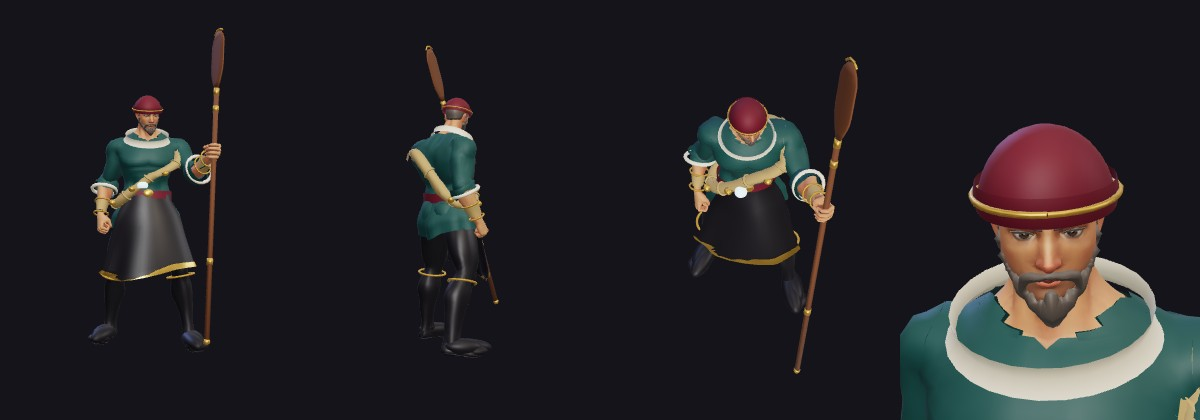
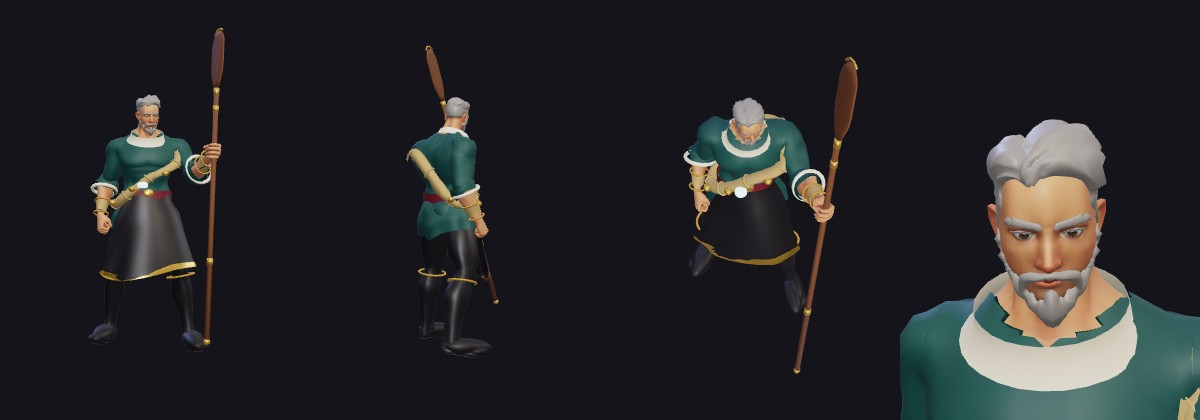
Tower figures: the Net-Father bare-headed with a roll neck, the Admiral's neck-stock, tighter line-ups
The fisher's dome cap read as a fez: grey hair, bare-headed. A closed cream stock hides the
admiral's cut neckline. The sheet script frames the line-ups closer and names its pictures as
they are kept (sea-lineup-game, sea-sheet, sea-<name>), so the README's command remakes them.
README: the counts (the crown floors have people too: about 220 models for everything new),
the anchor as it is carried.

diff --git a/pipeline/tools/tower-models-sheet.js b/pipeline/tools/tower-models-sheet.js
@@ -4,8 +4,8 @@
 //
 //   python pipeline/tools/page-shots.py pipeline/tools/tower-models-sheet.js docs/tower/models --port 5186
 //
-// It returns lineup_game (the game's high three-quarter camera), lineup_front, and per figure <id> (front, back, the
-// game camera, the face). The figures are read from docs/tower/models/glb/<id>_v4.glb (build them first:
+// It returns <chapter>-lineup-game (the game's high three-quarter camera), <chapter>-lineup-front, <chapter>-sheet
+// (every figure alone) and per figure <chapter>-<name> (front, back, the game camera, the face). The figures are read from docs/tower/models/glb/<id>_v4.glb (build them first:
 // blender/tower/build.py). `stand` is the hero whose way of holding and striking the figure borrows (src/motion/real.ts
 // REAL_STYLE: Sefu holds a staff upright in the left hand, Brannoc strikes with the right).
 const FIGS = window._towerFigs ?? [
@@ -20,6 +20,8 @@ const FIGS = window._towerFigs ?? [
 const { HeroPreview } = await import('/src/game/heroPreview.ts');
 const { HeroFigure } = await import('/src/heroFigure.ts');
 const { HERO_KITS } = await import('/src/heroes.ts');
+// the pictures are named after the chapter of the first figure: <chapter>-lineup-game, <chapter>-sheet, <chapter>-<name>
+const CH = FIGS[0].id.split('_')[0];
 const sleep = (ms) => new Promise((r) => setTimeout(r, ms));
 const kitOf = (n) => HERO_KITS.find((k) => k.name === n);
 const pv = new HeroPreview();
@@ -92,12 +94,12 @@ const out = {};
 pose(0.25);
 const dir = new V3(0, 6, 5).normalize();
 camera.fov = 30;
-camera.position.copy(new V3(0, 1.4, 0).addScaledVector(dir, 19));
+camera.position.copy(new V3(0, 1.4, 0).addScaledVector(dir, 13.8));
 camera.lookAt(0, 1.4, 0);
-out.lineup_game = shoot(1800, 760, names).toDataURL('image/jpeg', 0.9);
-camera.position.set(0, 2.3, 16.5);
-camera.lookAt(0, 2.1, 0);
-out.lineup_front = shoot(1800, 760, names).toDataURL('image/jpeg', 0.9);
+out[`${CH}-lineup-game`] = shoot(1800, 620, names).toDataURL('image/jpeg', 0.9);
+camera.position.set(0, 2.3, 12.6);
+camera.lookAt(0, 2.15, 0);
+out[`${CH}-lineup-front`] = shoot(1800, 680, names).toDataURL('image/jpeg', 0.9);
 
 // each alone: front, back, the game camera, the face
 const W = 300, H = 420;
@@ -145,9 +147,9 @@ for (let i = 0; i < FIGS.length; i++) {
   one.width = W * 4;
   one.height = H;
   tiles.forEach((t, k) => one.getContext('2d').drawImage(t, k * W, 0));
-  out[FIGS[i].id] = one.toDataURL('image/jpeg', 0.9);
+  out[FIGS[i].id.replace(/_/g, '-')] = one.toDataURL('image/jpeg', 0.9);
 }
 for (const r of row) r.fig.group.visible = true;
-out.each = sheet.toDataURL('image/jpeg', 0.88);
+out[`${CH}-sheet`] = sheet.toDataURL('image/jpeg', 0.88);
 out.missing = missing;
 return out;

diff --git a/blender/tower/sea/fisher.py b/blender/tower/sea/fisher.py
@@ -1,6 +1,6 @@
 """The Net-Father (the Sea's quest giver): the old fisher who mends the nets that hold the sea back from the town. A
-broad man, weathered, a grey-brown beard and a close knit cap of the harbour's wine with a gold cuff. A deep sea-green
-tunic with the sleeves to the elbow, a rolled cream collar, bare forearms with rope-wound bracers, black lacquer
+broad man, weathered, grey hair and a grey beard, bare-headed. A deep sea-green tunic with the sleeves to the elbow, a
+snug cream roll neck, a wine belt, bare forearms with rope-wound bracers, black lacquer
 trousers and knee boots with gold cuffs, a short black lacquer apron with a gold hem. His great net coiled over the
 left shoulder and across the chest to the right hip like a bandolier, strung with gold floats, and in it one float of
 sea glass that glows: his one light. In the LEFT hand a long steering oar, its blade up, gold at the neck and the tip
@@ -25,7 +25,7 @@ def build():
     R.mat("wood", "#6b4226", rough=0.7)
     R.mat("gold", "#c9a24a", rough=0.32, metal=0.85, double=True)
     R.mat("glow", "#d8f6ff", rough=0.25, emit="#7fdcf5", strength=1.0)
-    P.hair(R, "Hair_Buzzed", "#5f564e", beard="Hair_Beard")
+    P.hair(R, "Hair_SimpleParted", "#8a8580", beard="Hair_Beard")
 
     # the tunic to the elbows, cream collar, bare forearms with rope bracers
     el = R.bone("lowerarm_l").x
@@ -36,7 +36,7 @@ def build():
     wr = R.bone("hand_l").x
     R.fitted("Bracers", ["lowerarm"], "rope", offset=0.008, where=lambda p: el + (wr - el) * 0.55 < abs(p.x) < el + (wr - el) * 0.93)
     R.cuffs("gold", at=(0.55, 0.93), offset=0.011, thick=0.006)
-    P.collar(R, "cream", height=0.05, grow=1.12, flare=0.25)
+    P.collar(R, "cream", height=0.06, grow=0.98, flare=0.05)
     R.fitted("Trousers", ["thigh", "calf", "pelvis"], "lacquer", offset=0.004)
     R.boots("lacquer", top=z["knee"] - 0.04, cuff="gold")
     P.toes(R, "lacquer")
@@ -47,16 +47,6 @@ def build():
     cw, rxw, ryw = R.ring(z["waist"])
     R.piece("pelvis").ellipsoid("gold", Vector((0, cw.y - ryw * 1.2, z["waist"])), (0.034, 0.012, 0.03), seg=(12, 8))
     P.skirt(R, "lacquer", z["knee"] - 0.02, flare=1.32, depth=1.1, arc=(-1.05, 1.05), folds=5, amp=0.012, trim="gold", trim_h=0.022, grow=1.06, seg=24)
-
-    # the knit cap: a close round cap of wine, a turned-up gold-edged cuff
-    h = P.head(R)
-    hp = R.piece("Head")
-    P.shell(hp, "wine", h.c + Vector((0, 0.008, 0.006)), (h.rx * 1.16, h.ry * 1.16, h.rz * 1.16), lambda a: 0.1, seg=32, rows=8)
-    cz = h.c.z + 0.006 + h.rz * 1.16 * 0.1
-    hp.loft("wine", [(Vector((0, h.c.y + 0.008, cz - 0.012)), h.rx * 1.17, h.ry * 1.18), (Vector((0, h.c.y + 0.008, cz + 0.01)), h.rx * 1.22, h.ry * 1.23),
-                     (Vector((0, h.c.y + 0.008, cz + 0.032)), h.rx * 1.18, h.ry * 1.19)], seg=32)
-    pts = [Vector((h.rx * 1.23 * math.sin(2 * PI * i / 32), h.c.y + 0.008 - h.ry * 1.24 * math.cos(2 * PI * i / 32), cz + 0.01)) for i in range(33)]
-    hp.tube("gold", pts, 0.005, seg=6, caps=False)
 
     # the coiled net over the left shoulder to the right hip, gold floats along it, one float of sea glass
     sf, point = PA.strap(R, "rope", width=0.075, lift=0.2, grow=1.12, high_side=1, out=0.03)

diff --git a/blender/tower/sea/admiral.py b/blender/tower/sea/admiral.py
@@ -2,7 +2,7 @@
 fleet and still holds the harbour. Built as a giant, not a hero made big: broad and deep, a smaller head on a thick
 neck, big hands. Grey-green drowned skin and a dark beard. A long deep-teal admiral's coat to the calves, open in front
 over a wine waistcoat, its skirts lined in wine, broad gold braid down the fronts and at the hem, gold cuffs; heavy gold
-epaulettes with a fringe; a wine sash from the right shoulder; cream breeches and tall black lacquer boots; a black
+epaulettes with a fringe; a cream neck-stock; a wine sash from the right shoulder; cream breeches and tall black lacquer boots; a black
 bicorne edged in gold, a sea-glass gem in its cockade: his one light. Coral has grown on his left shoulder in clean
 branches, barnacles crust his right forearm and boot. In the RIGHT hand a great iron anchor with gold bands, held by
 its shank (his move: the Anchor Sweep). Signature shape: the anchor and the bicorne."""
@@ -60,7 +60,7 @@ def build():
     R.band("lacquer", z["waist"] - 0.02, height=0.06, grow=1.14, how=R.hang_w(z["waist"], hem))
     cw, rxw, ryw = R.ring(z["waist"] - 0.02)
     R.piece("pelvis").ellipsoid("gold", Vector((0, cw.y - ryw * 1.2, z["waist"] - 0.02)), (0.04, 0.014, 0.032), seg=(12, 8))
-    fc, foot, _ = P.collar(R, "gold", height=0.06, grow=1.08, flare=0.0, arc=(0.5, 2 * PI - 0.5))
+    fc, foot, _ = P.collar(R, "cream", height=0.07, grow=0.97, flare=0.0, arc=None)
     # the wine sash from the right shoulder to the left hip
     sf, pt = PA.strap(R, "wine", width=0.09, lift=0.2, grow=1.14, high_side=-1, out=0.03)
 
@@ -130,7 +130,7 @@ def build():
     hp.ellipsoid("glow", ck + Vector((0, -0.006, 0)), (0.015, 0.01, 0.015), seg=(10, 6))
 
     # the anchor in the right hand, held by the shank: the ring and the stock behind the fist, the crown and flukes ahead
-    # (it hangs crown-down by his boots at rest). Pale iron and gold, thick enough to read from the game camera.
+    # (at rest he carries it crown-up across his chest). Pale iron and gold, thick enough to read from the game camera.
     s = P.along(R)
     f, o, d, upv = R.held("r")
     side = upv.cross(d).normalized()

diff --git a/docs/tower/models/README.md b/docs/tower/models/README.md
@@ -20,10 +20,10 @@ figure as well: `sea-keeper.jpg`, `sea-fisher.jpg`, `sea-trader.jpg`, `sea-docke
 | Figure | Role | What it is | Body and parts |
 |---|---|---|---|
 | **The Bell-Warden** | keeper (main quest) | She rings the harbour bell that calls the drowned ships home. Silver hair in buns, a sea-navy gown to the floor with a gold hem and front seam, a flared sea-foam collar, a wine sash knotted at the hip, and a tall black staff whose gold crook holds the harbour bell; its clapper is her one light. | Female body (height 1.03). Fitted gown, `skirt` in folds, `collar`, `band`; the staff in the LEFT hand (held upright like Sefu's crook). |
-| **The Net-Father** | quest giver | The old fisher who mends the nets that hold the sea back. A grey beard, a close wine knit cap with a gold edge, a sea-green tunic, rope bracers, a black apron, his net coiled across the chest with gold floats and one glowing sea-glass float, a steering oar blade-up. | Male body, broad (width 1.1). Pack hair and beard; the net is a strap round the trunk; the oar in the LEFT hand. |
+| **The Net-Father** | quest giver | The old fisher who mends the nets that hold the sea back. Grey hair and beard, bare-headed, a snug cream roll neck, a sea-green tunic, rope bracers, a black apron, his net coiled across the chest with gold floats and one glowing sea-glass float, a steering oar blade-up. | Male body, broad (width 1.1). Pack hair and beard; the net is a strap round the trunk; the oar in the LEFT hand. |
 | **The Tide-Broker** | trader | She weighs what the tide gives back. A cream blouse with full sleeves, a black bodice laced in gold, a long wine skirt with an open black overskirt, pearls, a gold circlet, a strongbox on her back, and a brass balance held up, a glowing pearl in one pan. | Female body. Pack long hair; the balance in the LEFT hand. |
 | **Drowned docker** | enemy, melee | A dock hand the sea sent back up the quay. Pale grey-green skin, no brows, a cold sea-glass light for eyes, a sea-green jersey, clean dark-green kelp ribbons from the shoulders and belt, smooth cream barnacles on one shoulder and one forearm, a shackle and short chain, a brass cargo hook. No rags: what is drowned is told by colour, weed and barnacles. | Male body, lean. The hook in the RIGHT hand (strikes as Brannoc does). 19,000 faces. |
-| **The Drowned Admiral** | ruler (boss) | The admiral who went down with his fleet. Built as a giant, not a hero made big: broad and deep, a smaller head, hands 1.3 times as big. A long deep-teal coat with wine lining and gold braid, gold epaulettes, a wine sash, a black bicorne with a glowing sea-glass cockade, coral grown through the left epaulette, barnacles, and a great anchor held by the shank (his move is the Anchor Sweep). | Male body, width 1.3, depth 1.25, head 0.86, `big_hands`. The anchor in the RIGHT hand. |
+| **The Drowned Admiral** | ruler (boss) | The admiral who went down with his fleet. Built as a giant, not a hero made big: broad and deep, a smaller head, hands 1.3 times as big. A long deep-teal coat with wine lining and gold braid, gold epaulettes, a cream neck-stock, a wine sash, a black bicorne with a glowing sea-glass cockade, coral grown through the left epaulette, barnacles, and a great anchor held by the shank, carried crown-up across his chest at rest (his move is the Anchor Sweep). | Male body, width 1.3, depth 1.25, head 0.86, `big_hands`. The anchor in the RIGHT hand. |
 
 **Kept from the house rules:** the fourth hero style (the pack's realistic body, one continuous skin, on the Universal
 Animation Library's skeleton, so every clip the heroes play plays on these); mythic roles, never jobs played for a joke
@@ -49,9 +49,10 @@ The `_v4.glb` ending is what makes the game's figure code treat a model as one o
 python pipeline/tools/page-shots.py pipeline/tools/tower-models-sheet.js docs/tower/models --port 5186
 ```
 
-The second line takes the pictures (`pipeline/tools/tower-models-sheet.js`: the line-ups, each figure alone, and
-`each.jpg`, saved here as `sea-sheet.jpg`). Use a port no other agent's server is on. `--shots <folder>` on the first
-line also writes a Blender check picture of each in its T-pose.
+The second line takes the pictures (`pipeline/tools/tower-models-sheet.js`: the two line-ups, each figure alone, and the
+sheet of all of them) straight into this folder, under the names above. Use a port no other agent's server is on.
+`--shots <folder>` on the first line also writes a Blender check picture of each in its T-pose. The page log shows one
+404 while the figures load; all seven load and are drawn, and where it comes from was not looked into.
 
 ## The plan for all 50 floors
 
@@ -59,15 +60,17 @@ The ladder (pipeline/designs/tower-50.md): five chapters of ten floors; in each,
 generator, and a crown. **The five crowns are Raid bosses and need nothing.** Gatekeepers and rivals stay heroes (they
 are duels against a hero by design).
 
-**Everything new, nothing repeated:** three people on each of the 45 other floors (135), one ruler on each (45), and
-the enemy kinds (about five a chapter, 25): **about 205 models.** Too many to make well, and a player would not tell
-most of them apart.
+**Everything new, nothing repeated:** three people on every floor, the crowns included (the made crown, sea-10, has a
+keeper, a giver and a trader like the others: 150), one ruler on each of the 45 other floors, and the enemy kinds (about
+five a chapter, 25): **about 220 models.** Too many to make well, and a player would not tell most of them apart. (The
+made crown's boss, the Sun Warden in sea-10, is today also a `RulerDef` standing as a hero, Isolde: if the crowns are to
+show their Raid boss's own model, they need nothing new; if not, five more rulers.)
 
 **Recommended: about 50, and no hero reused.**
 
 | Kind | Per chapter | All five | How they are spread |
 |---|---|---|---|
-| People | 5: the chapter's keeper (the same person on all its floors, a thread through the chapter), 2 quest givers, 2 traders | 25 | The keeper stays; the givers and traders take turns, so each floor's set differs from the floor before (with its gatekeeper and rival heroes, no two floors look the same) |
+| People | 5: the chapter's keeper (the same person on all its ten floors, a thread through the chapter), 2 quest givers, 2 traders | 25 | The keeper stays; the givers and traders take turns, so each floor's set differs from the floor before (with its gatekeeper and rival heroes, no two floors look the same) |
 | Rulers | 3, each used on three made floors with its own tint, size and name (as rulers are tinted today) | 15 | Floor 1 of the chapter gets the first ruler untinted |
 | Enemies (people-shaped) | 3: the common melee one, the ranged or casting one, the big one (the Mate, the chief) built heavy | 15 | The beasts (crabs, hounds, mites, golems, the stag) cannot be made from the pack's human body: they stay drawn in code, or need an animal pack (a separate decision) |
 | **Total** | **11** | **55** | the Sea's five here are the first of them |
